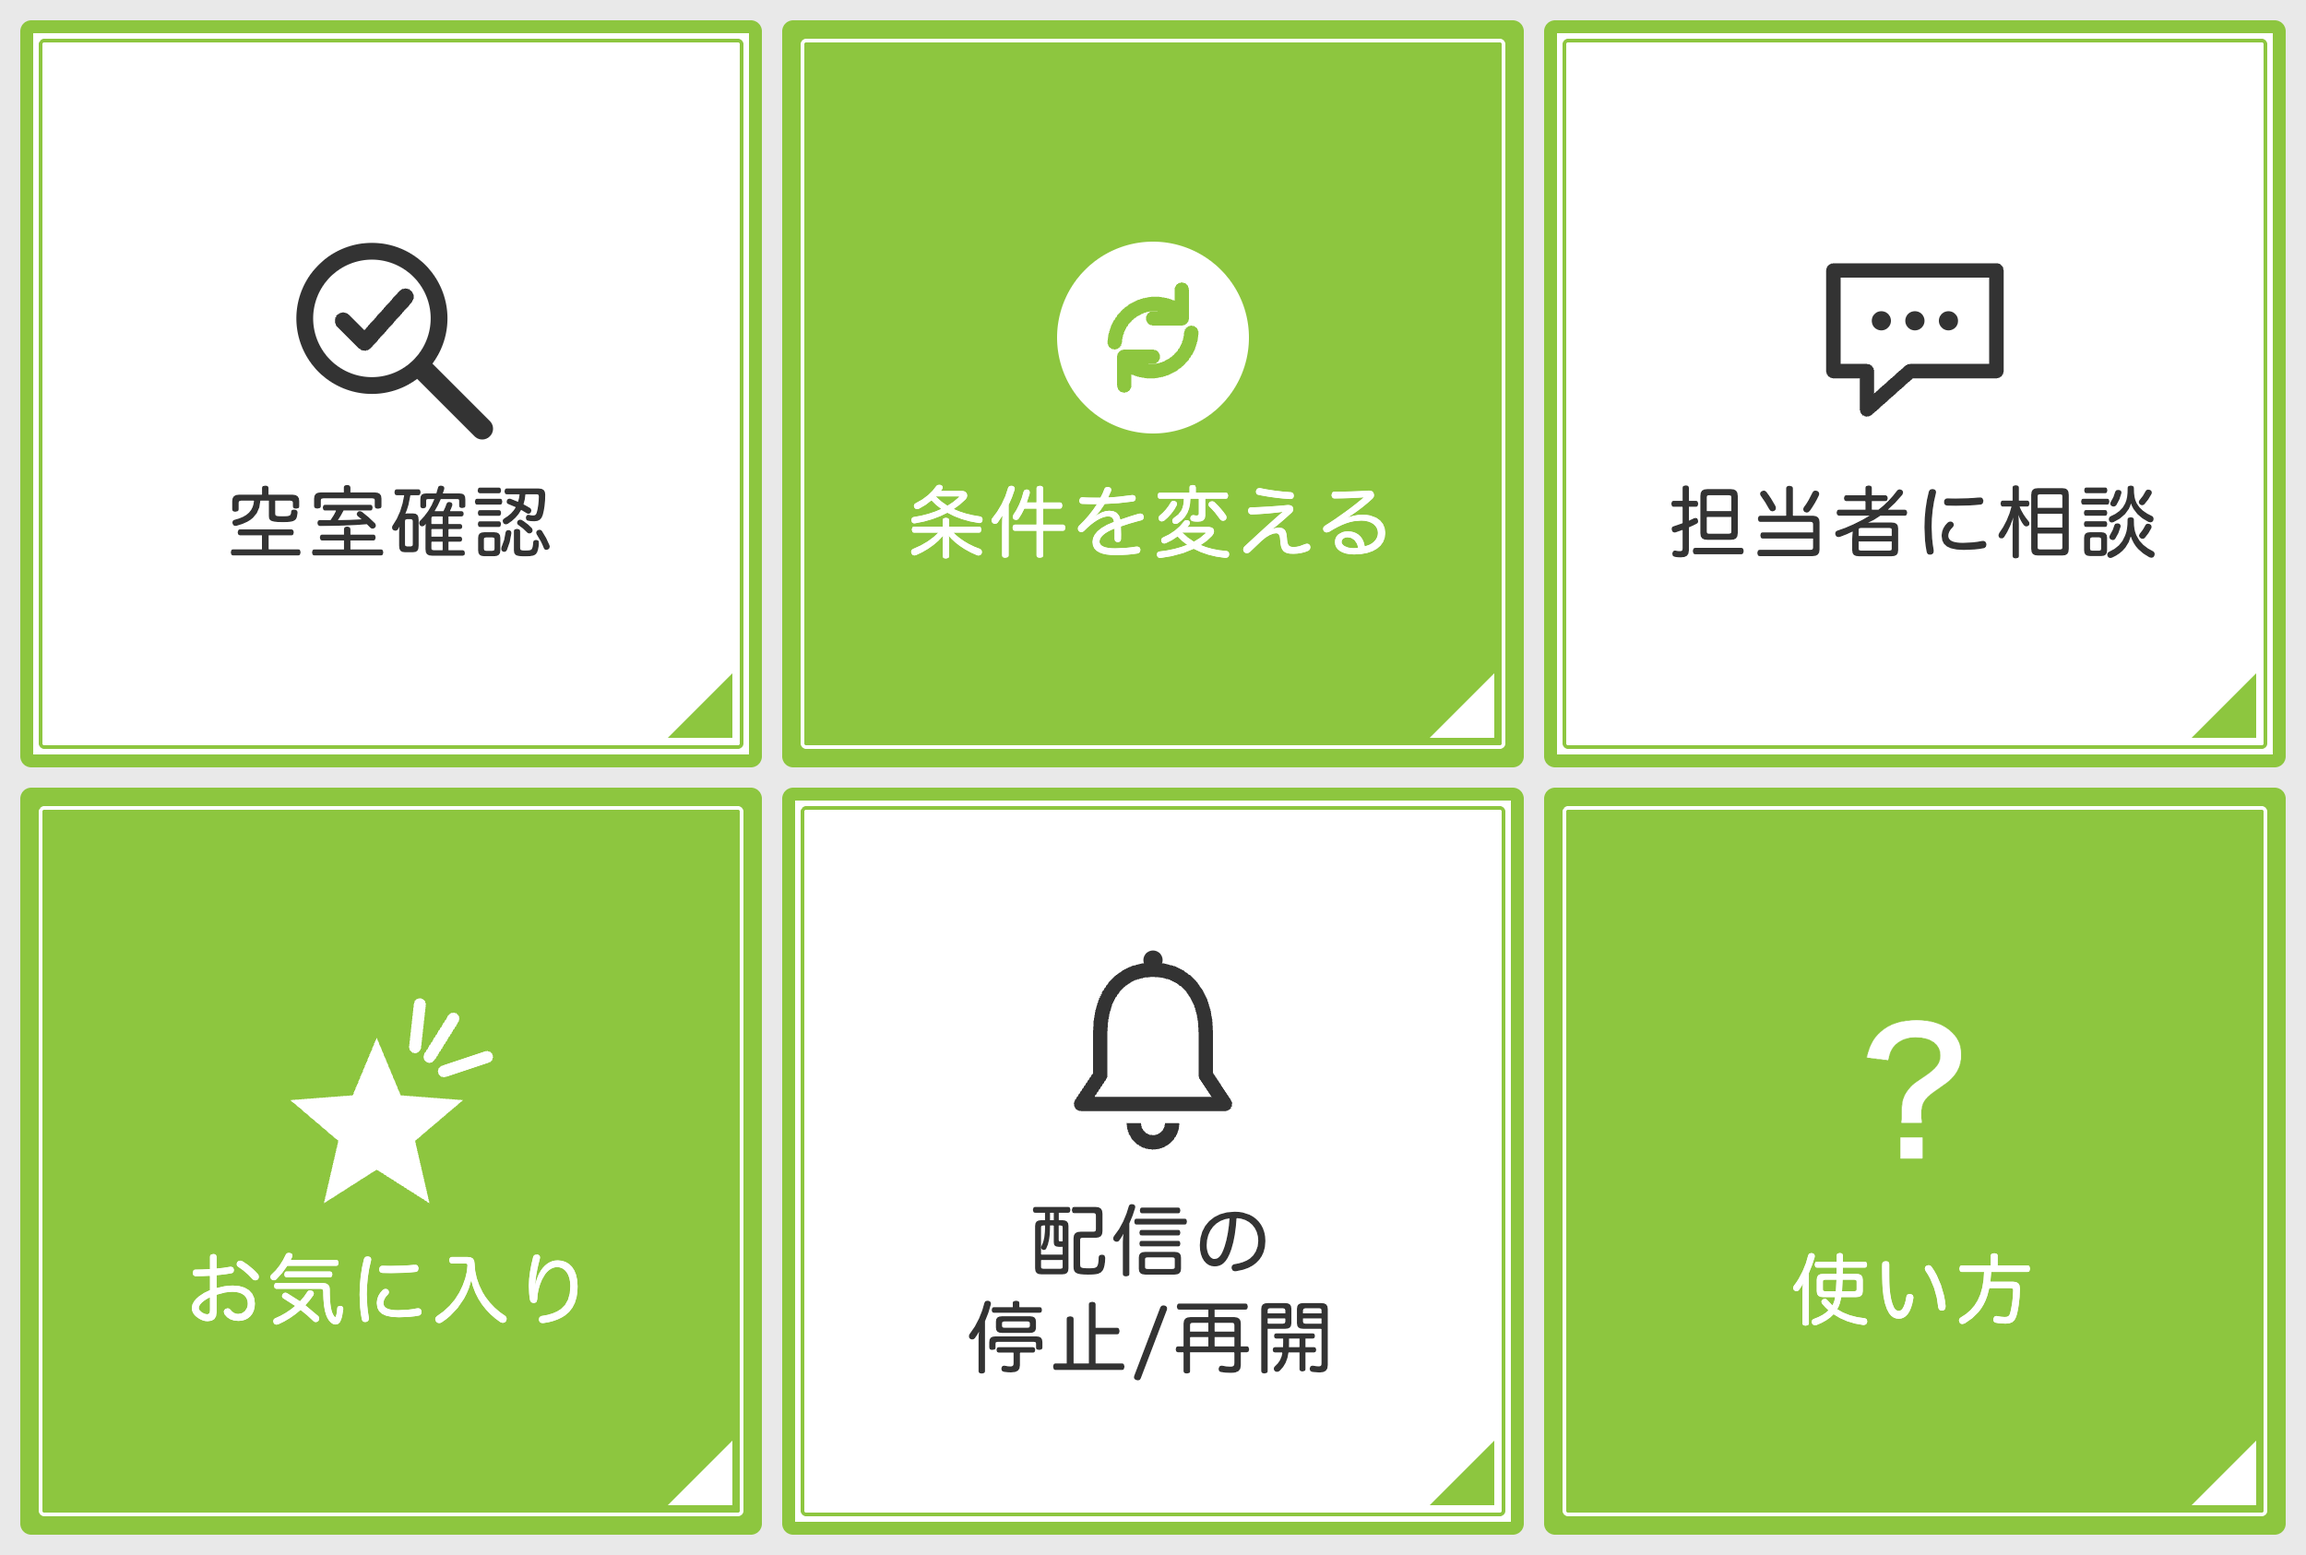
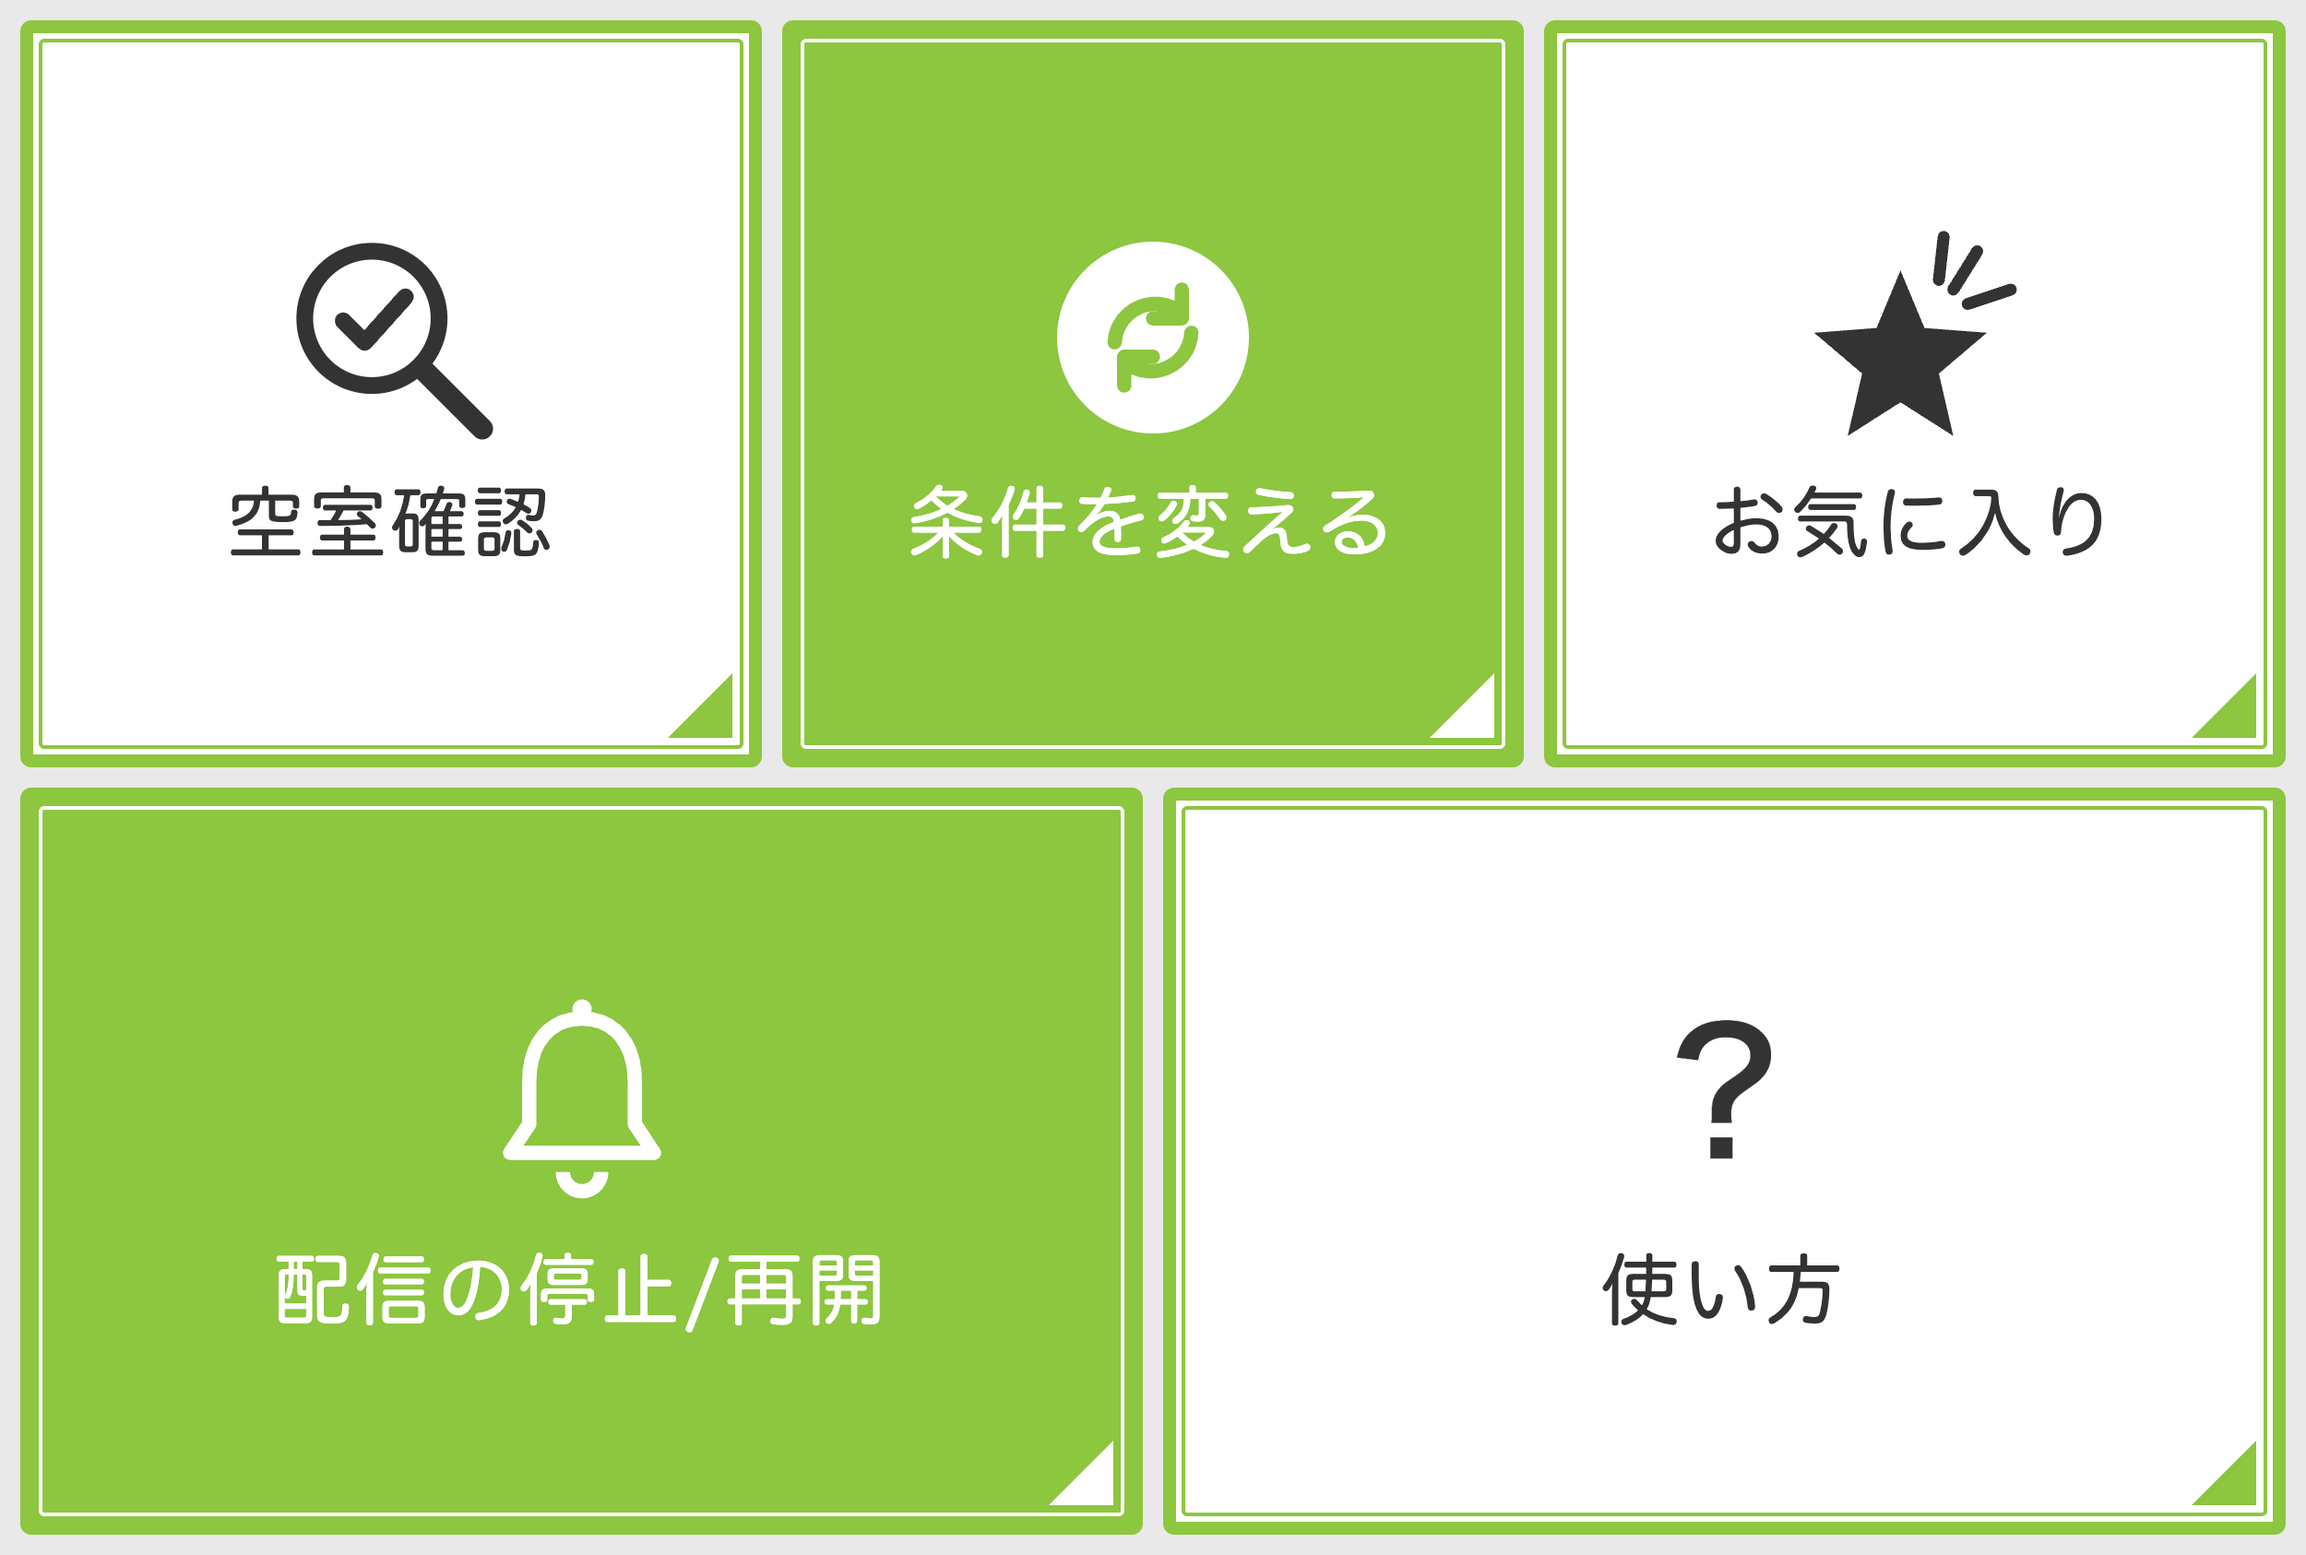
change(LINE): 登録後リッチメニューを5枠にする（担当者に相談は入れない）

diff --git a/Desktop/rent_researcher/docs/richmenu/menu_after.html b/Desktop/rent_researcher/docs/richmenu/menu_after.html
@@ -11,4 +11,4 @@ body{background:#e9e9e9;font-family:"Hiragino Maru Gothic ProN","Hiragino Sans",
 .tile .t{font-size:84px;letter-spacing:.06em;text-align:center;line-height:1.25;font-weight:500}
 .corner{position:absolute;right:18px;bottom:18px;width:0;height:0;border-left:70px solid transparent;border-bottom:70px solid #8dc63f}
 .tile.g .corner{border-bottom-color:#fff}
-html,body{width:2500px;height:1686px}.tile.g .alt{stroke:#8dc63f}.tile.w .alt{stroke:#fff}</style></head><body><div class="grid" style="grid-template-columns:1fr 1fr 1fr;grid-template-rows:1fr 1fr"><div class="tile w"><div class="in"></div><svg viewBox="0 0 100 100"><circle cx="42" cy="42" r="28" fill="none" stroke="currentColor" stroke-width="7"/><path d="M63 63 L88 88" stroke="currentColor" stroke-width="9" stroke-linecap="round"/><path d="M30 43 L39 52 L56 33" fill="none" stroke="currentColor" stroke-width="7" stroke-linecap="round" stroke-linejoin="round"/></svg><div class="t">空室確認</div><div class="corner"></div></div><div class="tile g"><div class="in"></div><svg viewBox="0 0 100 100"><circle cx="50" cy="50" r="40" fill="currentColor"/><path d="M34 52 A17 17 0 0 1 62 40" fill="none" class="alt" stroke="#8dc63f" stroke-width="6" stroke-linecap="round"/><path d="M62 30 V42 H50" fill="none" class="alt" stroke="#8dc63f" stroke-width="6" stroke-linecap="round" stroke-linejoin="round"/><path d="M66 48 A17 17 0 0 1 38 60" fill="none" class="alt" stroke="#8dc63f" stroke-width="6" stroke-linecap="round"/><path d="M38 70 V58 H50" fill="none" class="alt" stroke="#8dc63f" stroke-width="6" stroke-linecap="round" stroke-linejoin="round"/></svg><div class="t">条件を変える</div><div class="corner"></div></div><div class="tile w"><div class="in"></div><svg viewBox="0 0 100 100"><path d="M16 22 H84 V64 H48 L30 80 V64 H16 Z" fill="none" stroke="currentColor" stroke-width="6" stroke-linejoin="round"/><circle cx="36" cy="43" r="4" fill="currentColor"/><circle cx="50" cy="43" r="4" fill="currentColor"/><circle cx="64" cy="43" r="4" fill="currentColor"/></svg><div class="t">担当者に相談</div><div class="corner"></div></div><div class="tile g"><div class="in"></div><svg viewBox="0 0 100 100"><path d="M44 22 L54 46 L80 48 L60 65 L66 91 L44 77 L22 91 L28 65 L8 48 L34 46 Z" fill="currentColor"/><path d="M66 30 L76 14 M72 36 L90 30 M60 26 L62 8" stroke="currentColor" stroke-width="5" stroke-linecap="round"/></svg><div class="t">お気に入り</div><div class="corner"></div></div><div class="tile w"><div class="in"></div><svg viewBox="0 0 100 100"><path d="M50 14 C36 14 28 25 28 40 V58 L20 70 H80 L72 58 V40 C72 25 64 14 50 14 Z" fill="none" stroke="currentColor" stroke-width="6" stroke-linejoin="round"/><path d="M42 78 A8 8 0 0 0 58 78" fill="none" stroke="currentColor" stroke-width="6"/><circle cx="50" cy="10" r="4" fill="currentColor"/></svg><div class="t">配信の<br>停止/再開</div><div class="corner"></div></div><div class="tile g"><div class="in"></div><svg viewBox="0 0 100 100"><text x="50" y="72" text-anchor="middle" font-size="72" font-family="Hiragino Sans" font-weight="600" fill="currentColor">?</text></svg><div class="t">使い方</div><div class="corner"></div></div></div></body></html>
+html,body{width:2500px;height:843px}.grid>.tile:nth-child(-n+3){grid-column:span 2}.grid>.tile:nth-child(n+4){grid-column:span 3}.tile.g .alt{stroke:#8dc63f}.tile.w .alt{stroke:#fff}html,body{width:2500px;height:1686px}</style></head><body><div class="grid" style="grid-template-columns:repeat(6,1fr);grid-template-rows:1fr 1fr"><div class="tile w"><div class="in"></div><svg viewBox="0 0 100 100"><circle cx="42" cy="42" r="28" fill="none" stroke="currentColor" stroke-width="7"/><path d="M63 63 L88 88" stroke="currentColor" stroke-width="9" stroke-linecap="round"/><path d="M30 43 L39 52 L56 33" fill="none" stroke="currentColor" stroke-width="7" stroke-linecap="round" stroke-linejoin="round"/></svg><div class="t">空室確認</div><div class="corner"></div></div><div class="tile g"><div class="in"></div><svg viewBox="0 0 100 100"><circle cx="50" cy="50" r="40" fill="currentColor"/><path d="M34 52 A17 17 0 0 1 62 40" fill="none" class="alt" stroke="#8dc63f" stroke-width="6" stroke-linecap="round"/><path d="M62 30 V42 H50" fill="none" class="alt" stroke="#8dc63f" stroke-width="6" stroke-linecap="round" stroke-linejoin="round"/><path d="M66 48 A17 17 0 0 1 38 60" fill="none" class="alt" stroke="#8dc63f" stroke-width="6" stroke-linecap="round"/><path d="M38 70 V58 H50" fill="none" class="alt" stroke="#8dc63f" stroke-width="6" stroke-linecap="round" stroke-linejoin="round"/></svg><div class="t">条件を変える</div><div class="corner"></div></div><div class="tile w"><div class="in"></div><svg viewBox="0 0 100 100"><path d="M44 22 L54 46 L80 48 L60 65 L66 91 L44 77 L22 91 L28 65 L8 48 L34 46 Z" fill="currentColor"/><path d="M66 30 L76 14 M72 36 L90 30 M60 26 L62 8" stroke="currentColor" stroke-width="5" stroke-linecap="round"/></svg><div class="t">お気に入り</div><div class="corner"></div></div><div class="tile g"><div class="in"></div><svg viewBox="0 0 100 100"><path d="M50 14 C36 14 28 25 28 40 V58 L20 70 H80 L72 58 V40 C72 25 64 14 50 14 Z" fill="none" stroke="currentColor" stroke-width="6" stroke-linejoin="round"/><path d="M42 78 A8 8 0 0 0 58 78" fill="none" stroke="currentColor" stroke-width="6"/><circle cx="50" cy="10" r="4" fill="currentColor"/></svg><div class="t">配信の停止/再開</div><div class="corner"></div></div><div class="tile w"><div class="in"></div><svg viewBox="0 0 100 100"><text x="50" y="72" text-anchor="middle" font-size="72" font-family="Hiragino Sans" font-weight="600" fill="currentColor">?</text></svg><div class="t">使い方</div><div class="corner"></div></div></div></body></html>
